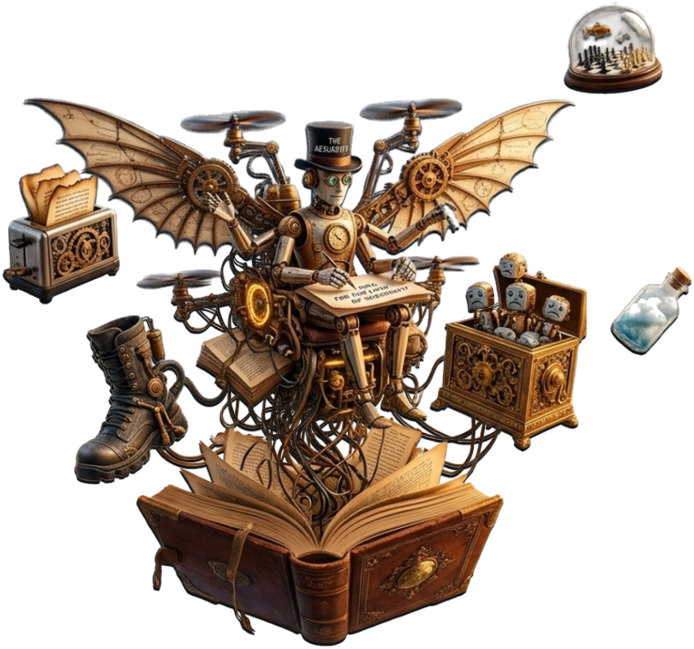
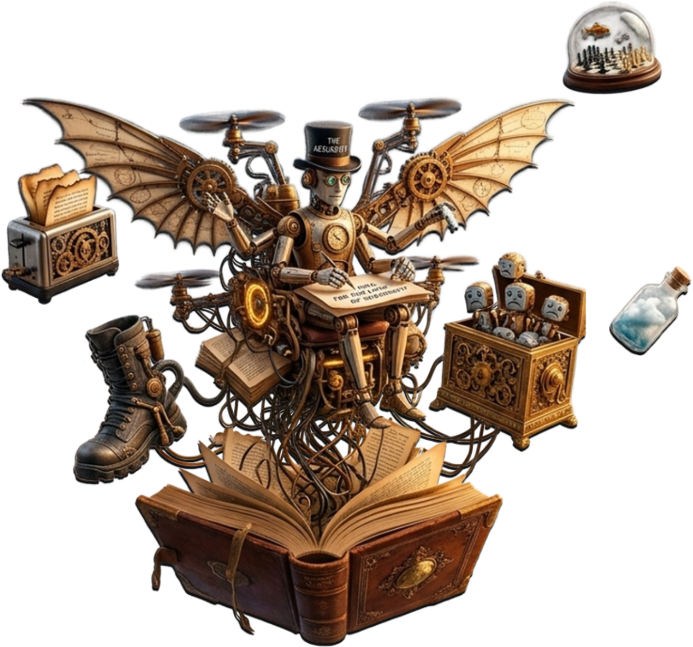
Fix chatbot initial position to avoid overlapping Makerspace and strip all remaining white background with clean alpha transparency

diff --git a/src/style.css b/src/style.css
@@ -3870,8 +3870,9 @@ a.bento-card.card-more-ideas .card-futility-tag {
    ========================================================================== */
 .useless-chat-widget {
   position: fixed;
-  bottom: 22px;
-  right: 22px;
+  bottom: 24px;
+  left: 28px;
+  right: auto;
   z-index: 9990;
   cursor: pointer;
   user-select: none;
@@ -4095,7 +4096,8 @@ a.bento-card.card-more-ideas .card-futility-tag {
 @media (max-width: 768px) {
   .useless-chat-widget {
     bottom: 16px;
-    right: 14px;
+    left: 14px;
+    right: auto;
   }
   .bot-character-container {
     width: 115px;
@@ -4113,7 +4115,8 @@ a.bento-card.card-more-ideas .card-futility-tag {
 @media (max-width: 480px) {
   .useless-chat-widget {
     bottom: 12px;
-    right: 10px;
+    left: 10px;
+    right: auto;
   }
   .bot-character-container {
     width: 100px;

diff --git a/index.html b/index.html
@@ -12,7 +12,7 @@
   <link
     href="https://fonts.googleapis.com/css2?family=JetBrains+Mono:wght@400;700;800&family=Space+Grotesk:wght@500;700;900&family=Syne:wght@700;800;900&display=swap"
     rel="stylesheet">
-  <link rel="stylesheet" href="src/style.css?v=4.3">
+  <link rel="stylesheet" href="src/style.css?v=4.4">
 </head>
 
 <body>
